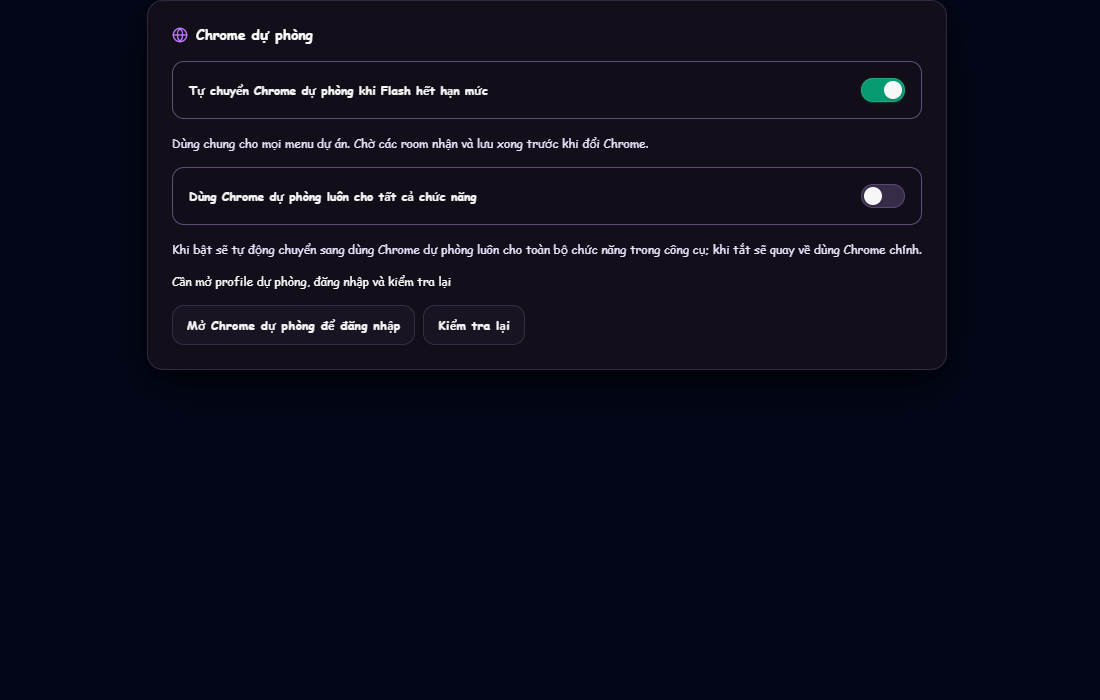
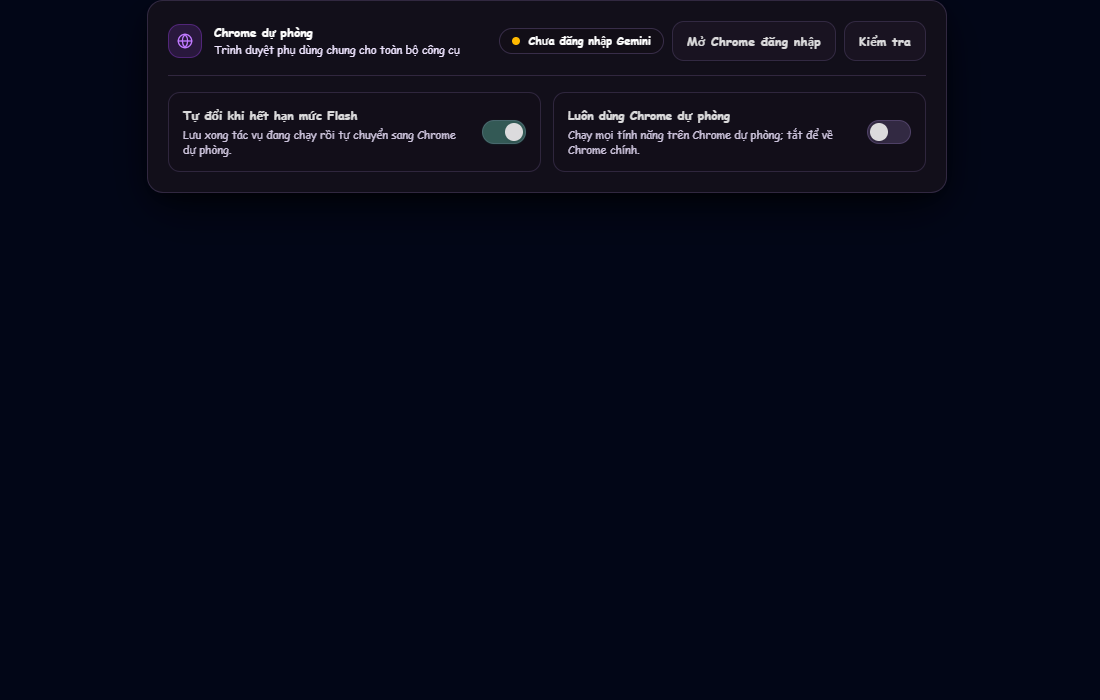
feat: add Chrome backup settings and HTML scene pipeline service

diff --git a/src/features/settings/components/ChromeBackupSettings.tsx b/src/features/settings/components/ChromeBackupSettings.tsx
@@ -5,6 +5,7 @@ import { StudioCard } from "../../../components/ui/Studio.js";
 import { Button } from "../../../components/ui/Button.js";
 import { ToggleIndicator } from "../../../components/common/ToggleIndicator.js";
 import { stringifyJson } from "../../../lib/jsonStringify.js";
+import { cn } from "../../../lib/utils.js";
 import { CHROME_BACKUP as C } from "../../../constants/chromeBackup.js";
 export const ChromeBackupSettings = ({ language }: { language: string }) => {
   const lang = language === C.EN ? C.EN : C.VI;
@@ -26,38 +27,57 @@ export const ChromeBackupSettings = ({ language }: { language: string }) => {
   useEffect(() => {
     void request();
   }, []);
+  const enabled = settings?.enabled === true;
+  const useBackup = settings?.useBackup === true;
+  const dotClassName = settings?.active ? C.UI.DOT_ACTIVE : settings?.ready ? C.UI.DOT_READY : C.UI.DOT_MISSING;
   return (
     <StudioCard className={C.UI.CARD}>
-      <h3 className={C.UI.TITLE}>
-        <Globe className={C.UI.ICON} />
-        {C.TITLE[lang]}
-      </h3>
-      <Button variant={C.UI.UNSTYLED} role={C.UI.SWITCH} aria-checked={settings?.enabled === true} aria-label={C.LABEL[lang]} disabled={busy || !settings || settings.switching} onClick={() => void request(C.API, { method: C.UI.PUT, headers: C.UI.JSON_HEADERS, body: stringifyJson({ enabled: !settings?.enabled }) })} className={C.UI.TOGGLE}>
-        <span className={C.UI.LABEL}>{C.LABEL[lang]}</span>
-        <ToggleIndicator checked={settings?.enabled === true} />
-      </Button>
-      <p className={C.UI.DESCRIPTION}>{C.DESCRIPTION[lang]}</p>
-      <Button variant={C.UI.UNSTYLED} role={C.UI.SWITCH} aria-checked={settings?.useBackup === true} aria-label={C.FORCE_LABEL[lang]} disabled={busy || !settings || settings.switching} onClick={() => void request(C.API, { method: C.UI.PUT, headers: C.UI.JSON_HEADERS, body: stringifyJson({ useBackup: !settings?.useBackup }) })} className={C.UI.TOGGLE}>
-        <span className={C.UI.LABEL}>{C.FORCE_LABEL[lang]}</span>
-        <ToggleIndicator checked={settings?.useBackup === true} />
-      </Button>
-      <p className={C.UI.DESCRIPTION}>{C.FORCE_DESCRIPTION[lang]}</p>
-      <p role={C.UI.STATUS_ROLE} className={C.UI.STATUS}>
-        {settings ? (settings.active ? C.ACTIVE[lang] : settings.ready ? C.READY[lang] : C.MISSING[lang]) : C.UI.LOADING}
-      </p>
+      <div className={C.UI.HEADER}>
+        <div className={C.UI.HEADER_INFO}>
+          <div className={C.UI.ICON_BOX}>
+            <Globe className={C.UI.ICON} />
+          </div>
+          <div>
+            <h3 className={C.UI.TITLE}>{C.TITLE[lang]}</h3>
+            <p className={C.UI.SUBTITLE}>{C.SUBTITLE[lang]}</p>
+          </div>
+        </div>
+        <div className={C.UI.HEADER_RIGHT}>
+          <p role={C.UI.STATUS_ROLE} className={C.UI.STATUS}>
+            <span className={cn(C.UI.DOT, dotClassName)} />
+            <span>{settings ? (settings.active ? C.ACTIVE[lang] : settings.ready ? C.READY[lang] : C.MISSING[lang]) : C.UI.LOADING}</span>
+          </p>
+          <div className={C.UI.ACTIONS}>
+            <Button variant={C.UI.SECONDARY} size={C.UI.SMALL} disabled={busy || !settings || (settings.active && !settings.useBackup) || settings.switching} onClick={() => void request(C.PREPARE_API, { method: C.UI.POST })}>
+              {C.PREPARE[lang]}
+            </Button>
+            <Button variant={C.UI.SECONDARY} size={C.UI.SMALL} disabled={busy} onClick={() => void request()}>
+              {C.CHECK[lang]}
+            </Button>
+          </div>
+        </div>
+      </div>
+      <div className={C.UI.GRID}>
+        <Button variant={C.UI.UNSTYLED} role={C.UI.SWITCH} aria-checked={enabled} aria-label={C.LABEL[lang]} disabled={busy || !settings || settings.switching} onClick={() => void request(C.API, { method: C.UI.PUT, headers: C.UI.JSON_HEADERS, body: stringifyJson({ enabled: !enabled }) })} className={cn(C.UI.TOGGLE, enabled && C.UI.TOGGLE_ACTIVE)}>
+          <span className={C.UI.TOGGLE_CONTENT}>
+            <span className={C.UI.LABEL}>{C.LABEL[lang]}</span>
+            <span className={C.UI.DESCRIPTION}>{C.DESCRIPTION[lang]}</span>
+          </span>
+          <ToggleIndicator checked={enabled} />
+        </Button>
+        <Button variant={C.UI.UNSTYLED} role={C.UI.SWITCH} aria-checked={useBackup} aria-label={C.FORCE_LABEL[lang]} disabled={busy || !settings || settings.switching} onClick={() => void request(C.API, { method: C.UI.PUT, headers: C.UI.JSON_HEADERS, body: stringifyJson({ useBackup: !useBackup }) })} className={cn(C.UI.TOGGLE, useBackup && C.UI.TOGGLE_ACTIVE)}>
+          <span className={C.UI.TOGGLE_CONTENT}>
+            <span className={C.UI.LABEL}>{C.FORCE_LABEL[lang]}</span>
+            <span className={C.UI.DESCRIPTION}>{C.FORCE_DESCRIPTION[lang]}</span>
+          </span>
+          <ToggleIndicator checked={useBackup} />
+        </Button>
+      </div>
       {settings?.error && (
         <p role={C.UI.ALERT_ROLE} className={C.UI.ERROR}>
           {settings.error}
         </p>
       )}
-      <div className={C.UI.ACTIONS}>
-        <Button variant={C.UI.SECONDARY} size={C.UI.SMALL} disabled={busy || !settings || (settings.active && !settings.useBackup) || settings.switching} onClick={() => void request(C.PREPARE_API, { method: C.UI.POST })}>
-          {C.PREPARE[lang]}
-        </Button>
-        <Button variant={C.UI.SECONDARY} size={C.UI.SMALL} disabled={busy} onClick={() => void request()}>
-          {C.CHECK[lang]}
-        </Button>
-      </div>
     </StudioCard>
   );
 };

diff --git a/src/constants/chromeBackup.ts b/src/constants/chromeBackup.ts
@@ -33,16 +33,28 @@ export const CHROME_BACKUP = {
   VI: "vi",
   EN: "en",
   UI: {
-    CARD: "glass-card rounded-3xl p-6 space-y-4",
-    TITLE: "flex items-center gap-2 text-sm font-bold text-slate-100",
+    CARD: "glass-card rounded-3xl p-5 space-y-4 shadow-md",
+    HEADER: "flex flex-wrap items-center justify-between gap-3 border-b border-slate-800/80 pb-3.5",
+    HEADER_INFO: "flex items-center gap-3 min-w-0",
+    ICON_BOX: "p-2 bg-purple-500/15 border border-purple-500/30 rounded-xl shrink-0",
+    TITLE: "text-xs font-black text-slate-100 uppercase font-mono tracking-wider",
+    SUBTITLE: "text-[11px] text-slate-400 mt-0.5",
+    HEADER_RIGHT: "flex flex-wrap items-center gap-2",
     ICON: "h-4 w-4 text-purple-400",
-    TOGGLE: "flex w-full items-center justify-between gap-4 rounded-xl border border-slate-700 bg-slate-950/60 p-4 text-left",
-    LABEL: "text-xs font-semibold text-slate-200",
-    DESCRIPTION: "text-xs text-slate-400",
-    STATUS: "text-xs text-slate-300",
-    ERROR: "rounded-lg border border-red-500/40 bg-red-500/10 p-3 text-xs text-red-200",
+    GRID: "grid grid-cols-1 md:grid-cols-2 gap-3",
+    TOGGLE: "flex w-full items-center justify-between gap-3 rounded-2xl border border-slate-800/90 bg-slate-950/60 p-3.5 text-left transition-all hover:border-slate-700",
+    TOGGLE_ACTIVE: "border-purple-500/40 bg-purple-500/10",
+    TOGGLE_CONTENT: "min-w-0 flex-1 space-y-1",
+    LABEL: "block text-xs font-bold text-slate-100",
+    DESCRIPTION: "block text-[11px] leading-snug text-slate-400",
+    STATUS: "inline-flex items-center gap-2 rounded-full border border-slate-800 bg-slate-950/80 px-3 py-1 text-[11px] font-semibold text-slate-300",
+    DOT: "h-2 w-2 rounded-full shrink-0",
+    DOT_ACTIVE: "bg-emerald-400 animate-pulse",
+    DOT_READY: "bg-purple-400",
+    DOT_MISSING: "bg-amber-400",
+    ERROR: "rounded-xl border border-red-500/40 bg-red-500/10 p-3 text-xs text-red-200",
     ALERT_ROLE: "alert",
-    ACTIONS: "flex flex-wrap gap-2",
+    ACTIONS: "flex flex-wrap items-center gap-2",
     SWITCH: "switch",
     STATUS_ROLE: "status",
     UNSTYLED: "unstyled",
@@ -55,14 +67,15 @@ export const CHROME_BACKUP = {
   },
   READY_SELECTOR: 'rich-textarea [contenteditable="true"], rich-textarea textarea',
   LOGIN_URL: /accounts\.google\.com/iu,
-  LABEL: { vi: "Tự chuyển Chrome dự phòng khi Flash hết hạn mức", en: "Switch to backup Chrome when Flash reaches its limit" },
-  FORCE_LABEL: { vi: "Dùng Chrome dự phòng luôn cho tất cả chức năng", en: "Always use backup Chrome for all features" },
-  FORCE_DESCRIPTION: { vi: "Khi bật sẽ tự động chuyển sang dùng Chrome dự phòng luôn cho toàn bộ chức năng trong công cụ; khi tắt sẽ quay về dùng Chrome chính.", en: "When enabled, automatically switches to backup Chrome for all tool features; when disabled, returns to primary Chrome." },
-  DESCRIPTION: { vi: "Dùng chung cho mọi menu dự án. Chờ các room nhận và lưu xong trước khi đổi Chrome.", en: "Applies to all project menus. Waits for active rooms to receive and save results before switching Chrome." },
-  PREPARE: { vi: "Mở Chrome dự phòng để đăng nhập", en: "Open backup Chrome to sign in" },
-  CHECK: { vi: "Kiểm tra lại", en: "Check again" },
-  READY: { vi: "Profile dự phòng đã đăng nhập Gemini", en: "Backup profile is signed in to Gemini" },
-  MISSING: { vi: "Cần mở profile dự phòng, đăng nhập và kiểm tra lại", en: "Open the backup profile, sign in and check again" },
+  SUBTITLE: { vi: "Trình duyệt phụ dùng chung cho toàn bộ công cụ", en: "Shared backup browser for all studio features" },
+  LABEL: { vi: "Tự đổi khi hết hạn mức Flash", en: "Auto-switch on Flash quota limit" },
+  FORCE_LABEL: { vi: "Luôn dùng Chrome dự phòng", en: "Always use backup Chrome" },
+  FORCE_DESCRIPTION: { vi: "Chạy mọi tính năng trên Chrome dự phòng; tắt để về Chrome chính.", en: "Runs all features on backup Chrome; turn off for primary Chrome." },
+  DESCRIPTION: { vi: "Lưu xong tác vụ đang chạy rồi tự chuyển sang Chrome dự phòng.", en: "Saves active tasks before switching to backup Chrome." },
+  PREPARE: { vi: "Mở Chrome đăng nhập", en: "Open Chrome login" },
+  CHECK: { vi: "Kiểm tra", en: "Check" },
+  READY: { vi: "Đã đăng nhập Gemini", en: "Signed in to Gemini" },
+  MISSING: { vi: "Chưa đăng nhập Gemini", en: "Not signed in to Gemini" },
   ACTIVE: { vi: "Đang dùng Chrome dự phòng", en: "Using backup Chrome" },
   TITLE: { vi: "Chrome dự phòng", en: "Backup Chrome" },
 } as const;

diff --git a/src/server/services/chatUiPlanningService.ts b/src/server/services/chatUiPlanningService.ts
@@ -1108,6 +1108,20 @@ const waitComposerFilled = async (input: Locator, prompt: string, directive: str
   }
   return false;
 };
+const pasteComposer = async (input: Locator, prompt: string): Promise<boolean> =>
+  input
+    .evaluate(
+      (element: HTMLElement, [text, type, event]: string[]) => {
+        if (!element.isContentEditable) return false;
+        element.focus();
+        window.getSelection()?.selectAllChildren(element);
+        const data = new DataTransfer();
+        data.setData(type, text);
+        return !element.dispatchEvent(new ClipboardEvent(event, { clipboardData: data, bubbles: true, cancelable: true }));
+      },
+      [prompt, CHAT_SPEED.PASTE_TYPE, CHAT_SPEED.PASTE_EVENT],
+    )
+    .catch(() => false);
 const writeComposer = async (page: Page, input: Locator, prompt: string, directive: string, requestId: string | undefined, signal?: AbortSignal): Promise<void> => {
   const deadline = Date.now() + CINEMATIC_CHAT_PLANNING_CONFIG.UI_COMPOSE_MAX_MS;
   for (let pass = 0; pass < 2 && Date.now() < deadline; pass++) {
@@ -1132,7 +1146,7 @@ const writeComposer = async (page: Page, input: Locator, prompt: string, directi
       await input.focus({ timeout: cap });
       await page.keyboard.press(CINEMATIC_CHAT_PLANNING_CONFIG.SELECT_ALL_KEY);
       await page.keyboard.insertText(prompt);
-    } else await input.fill(prompt, { timeout: cap });
+    } else if (!(await pasteComposer(input, prompt))) await input.fill(prompt, { timeout: cap });
     throwIfPlanningCancelled(signal);
     if (await waitComposerFilled(input, prompt, directive, requestId, Math.min(deadline, Date.now() + cap), () => true, signal)) return;
   }

diff --git a/src/server/services/geminiModelService.ts b/src/server/services/geminiModelService.ts
@@ -142,7 +142,7 @@ export const selectGeminiThinkingModel = async (page: Page, model: AiPlanningCha
   const baseLabel = selection && GEMINI_CHAT_BASE_MODEL_LABELS[selection.model];
   const unavailable = () => new Error(GEMINI_MODEL_ENCODING.UNAVAILABLE(model));
   if (!selection || !level || !baseLabel) throw unavailable();
-  if (await geminiModelStillSelected(page, model, baseLabel, new RegExp(`${level.label}|${level.labelEn}`, level.pattern.flags))) return;
+  if (await geminiModelStillSelected(page, model, baseLabel)) return;
   for (let attempt = 0; attempt < UI.SELECTION_ATTEMPTS; attempt++) {
     let phase: string = UI.PHASE.READY;
     try {

diff --git a/src/features/motion/server/services/html/scenePipeline.ts b/src/features/motion/server/services/html/scenePipeline.ts
@@ -371,7 +371,7 @@ export const generateMotionHtmlScene = async (scene: MotionRemotionScene, settin
         if (scene.html) scene.html.status = RT_MAINTENANCE.RETRY_WAIT;
         await retainCheckpoint(persist, opts);
         opts.log(MOTION_HTML.ABANDON_LOG(scene.id));
-        await delay(MOTION_HTML.RETRY_MS[0], undefined, { signal: opts.signal });
+        await delay(MOTION_HTML.RETRY_MS[Math.min(failures++, MOTION_HTML.RETRY_MS.length - 1)], undefined, { signal: opts.signal });
         continue;
       }
       const unknown = !!attempt.submission?.attempted && !attempt.submission.completed && !attempt.submission.abandoned;

diff --git a/src/constants/chatSpeed.ts b/src/constants/chatSpeed.ts
@@ -7,5 +7,7 @@ export const CHAT_SPEED = {
   MODEL_REUSE_MS: 600_000,
   TIMING_FILE: "gemini-timing.jsonl",
   NEWLINE: "\n",
+  PASTE_TYPE: "text/plain",
+  PASTE_EVENT: "paste",
   MARK: { WRITTEN: "written", SENT: "sent", FIRST_TEXT: "firstText" },
 } as const;
